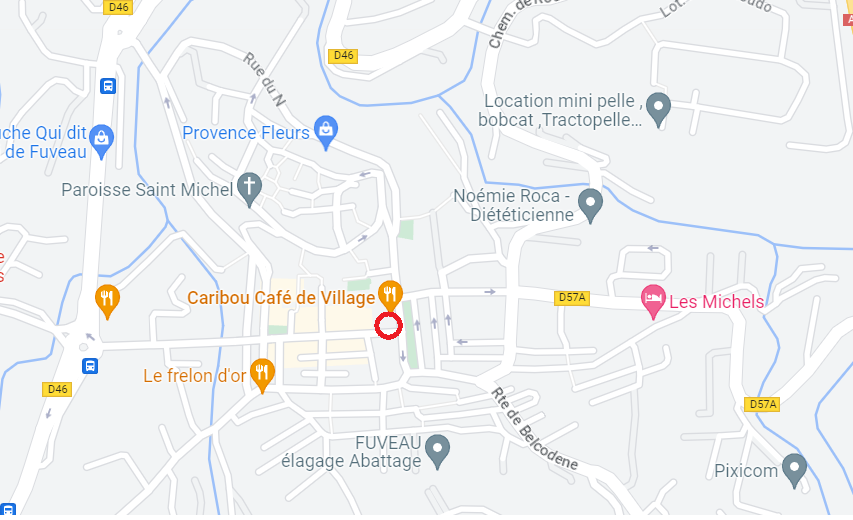
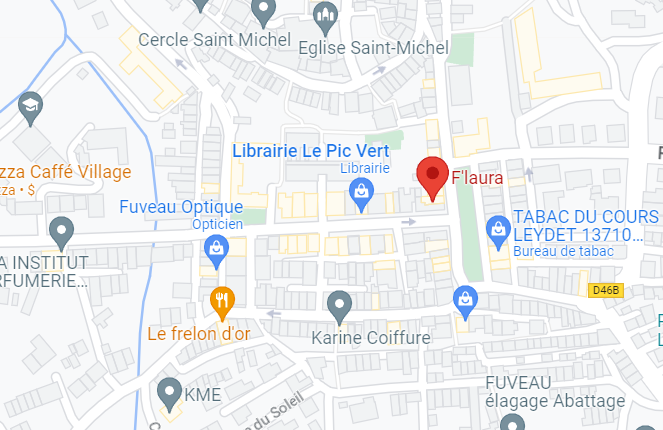
map react

diff --git a/src/components/pages/Accueil.js b/src/components/pages/Accueil.js
@@ -11,6 +11,7 @@ import phone from '../img/telephone.png';
 import horaire from '../img/horaire.png';
 import AliceCarousel from 'react-alice-carousel';
 import "react-alice-carousel/lib/alice-carousel.css";
+import map from '../img/map.png'
 import img1 from '../img/accueil.jpg';
 import img2 from '../img/accueil2.jpg';
 import img3 from '../img/accueil3.jpg';
@@ -100,7 +101,12 @@ export default function Accueil() {
             <p className='text-title2'>✔ Dimanche&nbsp;&nbsp;09:00/12:00&nbsp;&nbsp;&nbsp;&nbsp;fermé</p>
           </ul>
         </div>
-        <div className='divider2'></div>
+        <div className='map'>
+          <div className='divider2'></div>
+          <h5 className='coordonnee'> Coordonnée </h5>
+          <img src={map} width={400} height={300} alt="" className='map'/>
+        </div>
+        <div className='divider3'></div>
         <h5 className="copyright">&copy; 2023 F'Laura, Tous droits réservés.</h5>
       </footer>
     </div>

diff --git a/src/components/CSS/Accueil.css b/src/components/CSS/Accueil.css
@@ -28,7 +28,7 @@ h2 {
 .footer {
     border-top: 3px solid #646C4C;
     margin-top: 900px;
-    height: 500px;
+    height: 900px;
     background-color: #ddd4cf;
 }
 
@@ -95,6 +95,28 @@ h2 {
 }
 
 .divider2::after {
+    margin-right: 50px;
+}
+
+.divider3 {
+    display: flex;
+    align-items: center;
+}
+
+.divider3::before,
+.divider3::after {
+    content: '';
+    flex-grow: 1;
+    height: 1px;
+    background-color: #646C4C;
+    margin-top: 20px;
+}
+
+.divider3::before {
+    margin-left: 50px;
+}
+
+.divider3::after {
     margin-right: 50px;
 }
 
@@ -190,6 +212,20 @@ h2 {
 .carousel {
     margin-bottom: -750px;
     margin-top: 100px;
+}
+
+.map{
+    text-align: center;
+}
+
+.map img{
+    border: 2px solid #646C4C;
+}
+
+.coordonnee{
+    margin-top: 30px;
+    color: #646C4C;
+    margin-bottom: 20px;
 }
 
 @media screen and (max-width:680px) {
